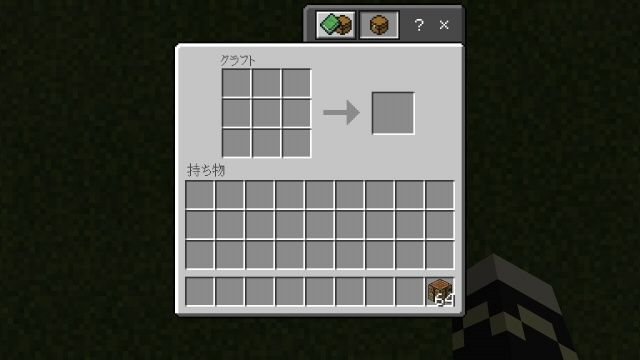
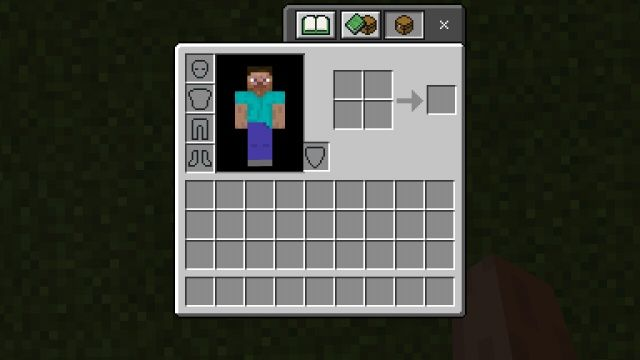
BackImageGUI-1.4.0

Changed region(s): [[0.2812, 0.0, 0.7188, 0.4889], [0.6562, 0.7028, 0.9062, 1.0]]

diff --git a/html/distributions/backimage_gui.html b/html/distributions/backimage_gui.html
@@ -34,18 +34,19 @@
       <p class="materialy-card__text">overlayモード: 半透明(alpha:0.6)の画像をGUIの上に被せます(インベントリの画像を合成させる必要がありません)</p>
       <p class="materialy-card__text">backgroundモード: GUIの後ろに画像を置きます</p>
       <p class="materialy-card__text">disableモード: 画像を非表示にします</p>
+      <p class="materialy-card__text">3.インベントリの"?"ボタンを非表示にする</p>
     </div>
     <div class="materialy-card">
       <p class="materialy-card__title">動作環境</p>
-      <p class="materialy-card__text">Minecraft : 1.2.13.54(で確認)</p>
+      <p class="materialy-card__text">Minecraft : 1.2.13.60(で確認)</p>
       <p class="materialy-card__text">他のバージョンでも使用できる場合や使用できない場合があります</p>
     </div>
     <div class="materialy-card">
       <p class="materialy-card__title">ダウンロード</p>
-      <p class="materialy-card__text">最新バージョン: 1.3.1</p>
+      <p class="materialy-card__text">最新バージョン: 1.4.0</p>
       <p class="materialy-card__text">ファイルをダウンロードした時点で<a href="../license.html">ライセンス</a>に同意したことになります</p>
-      <a class="materialy-button--flat--accent" href="https://www.mediafire.com/file/213npp12bntieuj/BackImageGUI_v1.3.1.mcpack">mcpack</a>
-      <a class="materialy-button--flat--accent" href="https://www.mediafire.com/file/nuwfg77a7h47j2h/BackImageGUI_v1.3.1.zip">zip</a>
+      <a class="materialy-button--flat--accent" href="https://www.mediafire.com/download/cz6zxqcyavdn4mz">mcpack</a>
+      <a class="materialy-button--flat--accent" href="https://www.mediafire.com/download/tz8nt82e6uvyhe2">zip</a>
     </div>
     <div class="materialy-card" id="screenshot">
       <p class="materialy-card__title">スクリーンショット</p>
@@ -62,9 +63,13 @@
       <p class="materialy-card__text">backgroundモード時の作業台(画像は使用している端末の画面アスペクト比に合わせる必要があります)</p>
       <p class="materialy-card__text">画像はアズールレーン(Azur Lane)のZ19を使用しています(GUIで隠れてしまうため少し右にずらしています)</p>
       <div class="materialy-card__image"><img src="../../image/distributions/backimage_gui/screenshot_7.jpg"></div>
-      <p class="materialy-card__text">disableモード時の作業台</p>
+      <p class="materialy-card__text">"?"ボタンを非表示にした時のインベントリ</p>
       <div class="materialy-card__image"><img src="../../image/distributions/backimage_gui/screenshot_8.jpg"></div>
       <p class="materialy-card__text">_global_variables.jsonの中身 (ui/_global_variables.json)</p>
+      <div class="materialy-card__image"><img src="../../image/distributions/backimage_gui/screenshot_9.jpg"></div>
+      <p class="materialy-card__text">リソースパックのサブパックの設定ボタン</p>
+      <div class="materialy-card__image"><img src="../../image/distributions/backimage_gui/screenshot_10.jpg"></div>
+      <p class="materialy-card__text">サブパックの全設定</p>
     </div>
     <div class="materialy-card">
       <p class="materialy-card__title">使い方</p>
@@ -80,6 +85,11 @@
     </div>
     <div class="materialy-card">
       <p class="materialy-card__title">更新履歴</p>
+      <p class="materialy-card__subtitle">1.4.0</p>
+      <p class="materialy-card__text">ベースのjsonを1.2.13.60に更新</p>
+      <p class="materialy-card__text">選択したアイテムの名前を表示するように</p>
+      <p class="materialy-card__text">3つ(デフォルト・インベントリの"?"非表示にする・無効化)のサブパックを追加</p>
+      <a class="materialy-button--flat--accent" href="https://www.mediafire.com/folder/lc9ufhh57j536/1.4.0">1.4.0</a>
       <p class="materialy-card__subtitle">1.3.1</p>
       <p class="materialy-card__text">ベースのjsonを1.2.13.54に更新</p>
       <a class="materialy-button--flat--accent" href="https://www.mediafire.com/folder/t3exhuhyspaaj/1.3.1">1.3.1</a>
